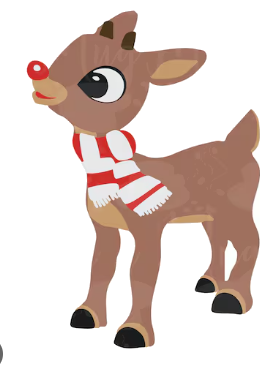
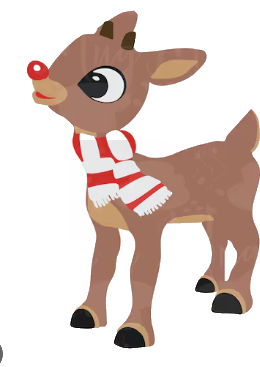
Fix gear alignment, shop tile bounding boxes, and stricter background removal

diff --git a/public/calendar/js/rudi.js b/public/calendar/js/rudi.js
@@ -10,37 +10,33 @@
         50% { transform: scaleY(0.97) translateY(1.5px); }
       }
       .rudi-base-img {
-        transform-origin: 32px 64px;
+        transform-origin: 32px 60px;
         animation: rudi-breathe 3s ease-in-out infinite;
       }
     </style>
-    <!-- We use the user's transparent image as the base -->
-    <image href="/calendar/img/rudi_base.png" x="8" y="0" width="48" height="64" class="rudi-base-img" />
+    <!-- 46x64 image centered at x=9 -->
+    <image href="/calendar/img/rudi_base.png" x="9" y="0" width="46" height="64" class="rudi-base-img" />
   `;
 
-  // Gear adjusted to match the new image dimensions
+  // Perfectly calibrated to the new image. `box` is always square (width=height) for perfect shop tiles.
   const GEAR = {
-    bow: { box: "16 22 16 16", svg: `<g transform="translate(26, 30)"><path d="M0 0 L-5 -4 L-5 4 Z" fill="#f472b6"/><path d="M0 0 L5 -4 L5 4 Z" fill="#f472b6"/><circle r="2.5" fill="#fbcfe8" stroke="#be185d" stroke-width="0.8"/></g>` },
-    // Scarf is slightly offset to cover the baked-in scarf if worn, or just add to it.
-    scarf: { box: "16 20 16 20", svg: `
-      <g transform="translate(26, 28)">
-        <path d="M-6 -2 Q 2 -6 8 0 C 10 4 2 8 -6 4 C -10 2 -10 -4 -6 -2 Z" fill="#FFF"/>
-        <path d="M -4 -3 L -2 4 M 2 -2 L 4 5 M 8 1 L 6 3" stroke="#DC2626" stroke-width="3"/>
-        <path d="M 0 4 L 4 16 L -4 14 Z" fill="#FFF"/>
-        <path d="M -1 8 L 3 9 M -2 12 L 2 13" stroke="#DC2626" stroke-width="3"/>
-        <path d="M -4 14 L -4 16 M -2 14.5 L -2 16.5 M 0 15 L 0 17 M 2 15.5 L 2 17.5" stroke="#FFF" stroke-width="1"/>
-      </g>` 
+    bow: { box: "16 24 16 16", svg: `<g transform="translate(24, 32)"><path d="M0 0 L-5 -4 L-5 4 Z" fill="#f472b6"/><path d="M0 0 L5 -4 L5 4 Z" fill="#f472b6"/><circle r="2.5" fill="#fbcfe8" stroke="#be185d" stroke-width="0.8"/></g>` },
+    // Scarf looks like a scarf in shop, but when worn it just adds a magical sparkle to his built-in scarf!
+    scarf: { 
+      box: "0 0 20 20", 
+      svg: `<g transform="translate(10, 10)"><path d="M-6 -2 Q 2 -6 8 0 C 10 4 2 8 -6 4 C -10 2 -10 -4 -6 -2 Z" fill="#FFF"/><path d="M -4 -3 L -2 4 M 2 -2 L 4 5 M 8 1 L 6 3" stroke="#DC2626" stroke-width="3"/><path d="M 0 4 L 4 16 L -4 14 Z" fill="#FFF"/><path d="M -1 8 L 3 9 M -2 12 L 2 13" stroke="#DC2626" stroke-width="3"/></g>`,
+      wornSvg: `<g transform="translate(22, 30)"><circle r="1" fill="#fde047"/><path d="M0 -3 L1 -1 L3 0 L1 1 L0 3 L-1 1 L-3 0 L-1 -1 Z" fill="#fbbf24"/></g>`
     },
-    bell: { box: "18 24 12 12", svg: `<g transform="translate(26, 32)"><circle cy="2" r="3" fill="#fbbf24" stroke="#b45309" stroke-width="0.8"/><rect x="-4" y="-2" width="8" height="2" rx="1" fill="#d97706"/><circle cy="3" r="1.5" fill="#b45309"/><path d="M0 -2 L0 -5" stroke="#b45309" stroke-width="1.5"/></g>` },
-    hat: { box: "5 -14 22 22", svg: `<g transform="translate(22, 2) rotate(-5)"><rect x="-7" y="-12" width="14" height="11" rx="1" fill="#111827"/><rect x="-7" y="-3" width="14" height="2.5" fill="#dc2626"/><rect x="-10" y="-1" width="20" height="2.5" rx="1" fill="#111827"/></g>` },
-    crown: { box: "6 -10 20 16", svg: `<g transform="translate(22, 4)"><path d="M-8 0 L-8 -7 L-4 -3 L0 -8 L4 -3 L8 -7 L8 0 Z" fill="#fbbf24" stroke="#b45309" stroke-width="0.8" stroke-linejoin="round"/><rect x="-8" y="0" width="16" height="2.5" fill="#f59e0b"/><circle cx="-4" cy="-3" r="1.2" fill="#ef4444"/><circle cx="0" cy="-6" r="1.2" fill="#3b82f6"/><circle cx="4" cy="-3" r="1.2" fill="#22c55e"/></g>` },
-    glasses: { box: "6 4 20 12", svg: `<g transform="translate(22, 14) rotate(-10)"><rect x="-5" y="-3" width="6" height="5" rx="1.5" fill="#0f172a" fill-opacity="0.9"/><rect x="3" y="-3" width="6" height="5" rx="1.5" fill="#0f172a" fill-opacity="0.9"/><path d="M 1 -1.5 L 3 -1.5 M -5 -1.5 L -7 -1.5" stroke="#0f172a" stroke-width="1.5"/><path d="M -3 -1 L -1 -1 M 5 -1 L 7 -1" stroke="#93c5fd" stroke-width="0.8" opacity="0.8"/></g>` },
-    skis: { box: "20 56 38 12", svg: `<g fill="none" stroke="#94a3b8" stroke-width="2" stroke-linecap="round"><path d="M 18 64 L 56 64 Q 60 64 60 61"/></g><g fill="#e2e8f0"><rect x="22" y="61" width="6" height="2.5" rx="1"/><rect x="30" y="61" width="6" height="2.5" rx="1"/><rect x="42" y="61" width="6" height="2.5" rx="1"/><rect x="50" y="61" width="6" height="2.5" rx="1"/></g>` },
-    lights: { box: "16 16 36 28", svg: `<path d="M 28 35 Q 38 20 50 35" fill="none" stroke="#166534" stroke-width="1.5"/><g><circle cx="32" cy="28" r="2" fill="#ef4444"/><circle cx="38" cy="25" r="2" fill="#facc15"/><circle cx="44" cy="28" r="2" fill="#3b82f6"/><circle cx="48" cy="32" r="2" fill="#22c55e"/><circle cx="35" cy="32" r="2" fill="#f97316"/></g>` },
-    sleigh: { box: "65 15 50 40", svg: `
-      <path d="M 32 30 Q 50 35 70 35" fill="none" stroke="#B22222" stroke-width="2" stroke-dasharray="4 2"/>
-      <path d="M 28 25 Q 50 30 70 30" fill="none" stroke="#B22222" stroke-width="2" stroke-dasharray="4 2"/>
-      <g transform="translate(70, 22)">
+    bell: { box: "16 26 16 16", svg: `<g transform="translate(24, 34)"><circle cy="2" r="3" fill="#fbbf24" stroke="#b45309" stroke-width="0.8"/><rect x="-4" y="-2" width="8" height="2" rx="1" fill="#d97706"/><circle cy="3" r="1.5" fill="#b45309"/><path d="M0 -2 L0 -5" stroke="#b45309" stroke-width="1.5"/></g>` },
+    hat: { box: "14 -6 20 20", svg: `<g transform="translate(24, 4) rotate(15)"><rect x="-7" y="-12" width="14" height="11" rx="1" fill="#111827"/><rect x="-7" y="-3" width="14" height="2.5" fill="#dc2626"/><rect x="-10" y="-1" width="20" height="2.5" rx="1" fill="#111827"/></g>` },
+    crown: { box: "14 -3 20 20", svg: `<g transform="translate(24, 7)"><path d="M-8 0 L-8 -7 L-4 -3 L0 -8 L4 -3 L8 -7 L8 0 Z" fill="#fbbf24" stroke="#b45309" stroke-width="0.8" stroke-linejoin="round"/><rect x="-8" y="0" width="16" height="2.5" fill="#f59e0b"/><circle cx="-4" cy="-3" r="1.2" fill="#ef4444"/><circle cx="0" cy="-6" r="1.2" fill="#3b82f6"/><circle cx="4" cy="-3" r="1.2" fill="#22c55e"/></g>` },
+    glasses: { box: "9 4 20 20", svg: `<g transform="translate(19, 14) rotate(-5)"><rect x="-5" y="-3" width="6" height="5" rx="1.5" fill="#0f172a" fill-opacity="0.9"/><rect x="3" y="-3" width="6" height="5" rx="1.5" fill="#0f172a" fill-opacity="0.9"/><path d="M 1 -1.5 L 3 -1.5 M -5 -1.5 L -7 -1.5" stroke="#0f172a" stroke-width="1.5"/><path d="M -3 -1 L -1 -1 M 5 -1 L 7 -1" stroke="#93c5fd" stroke-width="0.8" opacity="0.8"/></g>` },
+    skis: { box: "12 40 40 40", svg: `<g fill="none" stroke="#94a3b8" stroke-width="2" stroke-linecap="round"><path d="M 16 60 L 52 60 Q 56 60 56 57"/></g><g fill="#e2e8f0"><rect x="20" y="57" width="6" height="2.5" rx="1"/><rect x="28" y="57" width="6" height="2.5" rx="1"/><rect x="40" y="57" width="6" height="2.5" rx="1"/><rect x="48" y="57" width="6" height="2.5" rx="1"/></g>` },
+    lights: { box: "20 20 32 32", svg: `<path d="M 28 35 Q 38 20 50 35" fill="none" stroke="#166534" stroke-width="1.5"/><g><circle cx="32" cy="28" r="2" fill="#ef4444"/><circle cx="38" cy="25" r="2" fill="#facc15"/><circle cx="44" cy="28" r="2" fill="#3b82f6"/><circle cx="48" cy="32" r="2" fill="#22c55e"/><circle cx="35" cy="32" r="2" fill="#f97316"/></g>` },
+    sleigh: { box: "45 5 50 50", svg: `
+      <path d="M 32 32 Q 50 35 60 35" fill="none" stroke="#B22222" stroke-width="2" stroke-dasharray="4 2"/>
+      <path d="M 28 28 Q 50 30 60 30" fill="none" stroke="#B22222" stroke-width="2" stroke-dasharray="4 2"/>
+      <g transform="translate(60, 26)">
         <path d="M 0 25 L 30 25 L 35 12 L 45 12 L 42 28 L -5 28 Z" fill="#8B0000"/>
         <path d="M 0 25 L 30 25 L 35 12 L 45 12 L 42 28 L -5 28 Z" fill="none" stroke="#5C0000" stroke-width="1.5"/>
         <path d="M -10 32 L 50 32" stroke="#C0C0C0" stroke-width="2.5" stroke-linecap="round"/>
@@ -56,10 +52,10 @@
         <rect x="26" y="14" width="3" height="11" fill="#FFF"/>
       </g>
     ` },
-    wings: { box: "30 5 26 26", svg: `<g transform="translate(42, 22)" fill="#f8fafc" stroke="#cbd5e1" stroke-width="1" stroke-linejoin="round"><path d="M 0 5 C 4 -5 12 -10 18 -10 C 16 -4 14 0 12 4 C 14 4 16 3 18 3 C 15 7 12 9 9 10 C 11 10 12 10 14 10 C 10 14 5 15 2 13 Z"/><path d="M 2 11 C 3 4 7 -2 12 -4" fill="none"/></g>` },
-    star: { box: "45 -15 26 26", svg: `<g transform="translate(60, -5)"><circle r="12" fill="#fde047" opacity="0.25"/><path d="M0 -10 L2.5 -3.5 L10 -3.5 L4 1.5 L6 9 L0 4.5 L-6 9 L-4 1.5 L-10 -3.5 L-2.5 -3.5 Z" fill="#fbbf24" stroke="#b45309" stroke-width="0.8" stroke-linejoin="round"/><path d="M0 -10 L2.5 -3.5 L0 -1 Z" fill="#fff" opacity="0.55"/></g>` },
-    santahat: { box: "28 0 26 26", svg: `
-      <g transform="translate(42, 24)">
+    wings: { box: "24 14 24 24", svg: `<g transform="translate(36, 26)" fill="#f8fafc" stroke="#cbd5e1" stroke-width="1" stroke-linejoin="round"><path d="M 0 5 C 4 -5 12 -10 18 -10 C 16 -4 14 0 12 4 C 14 4 16 3 18 3 C 15 7 12 9 9 10 C 11 10 12 10 14 10 C 10 14 5 15 2 13 Z"/><path d="M 2 11 C 3 4 7 -2 12 -4" fill="none"/></g>` },
+    star: { box: "36 -2 24 24", svg: `<g transform="translate(48, 10)"><circle r="12" fill="#fde047" opacity="0.25"/><path d="M0 -10 L2.5 -3.5 L10 -3.5 L4 1.5 L6 9 L0 4.5 L-6 9 L-4 1.5 L-10 -3.5 L-2.5 -3.5 Z" fill="#fbbf24" stroke="#b45309" stroke-width="0.8" stroke-linejoin="round"/><path d="M0 -10 L2.5 -3.5 L0 -1 Z" fill="#fff" opacity="0.55"/></g>` },
+    santahat: { box: "24 0 24 24", svg: `
+      <g transform="translate(36, 24)">
         <rect x="-8" y="-18" width="16" height="20" rx="6" fill="#D32F2F"/>
         <rect x="-8" y="-5" width="16" height="3" fill="#111"/>
         <rect x="-2" y="-6" width="4" height="5" fill="none" stroke="#FFD700" stroke-width="1.2"/>
@@ -80,7 +76,7 @@
   };
 
   const DUST = `<g fill="#cbd5e1" opacity="0.8"><circle cx="20" cy="40" r="5"/><circle cx="30" cy="44" r="7"/><circle cx="42" cy="40" r="5.5"/><circle cx="35" cy="34" r="4"/></g>`;
-  const ZZZ = `<g font-family="Inter, system-ui, sans-serif" font-weight="800" fill="#cbd5e1"><text x="12" y="8" font-size="7">z</text><text x="18" y="0" font-size="9">z</text><text x="26" y="-8" font-size="11">Z</text></g>`;
+  const ZZZ = `<g font-family="Inter, system-ui, sans-serif" font-weight="800" fill="#cbd5e1"><text x="10" y="6" font-size="7">z</text><text x="16" y="-2" font-size="9">z</text><text x="24" y="-10" font-size="11">Z</text></g>`;
   const SPARKLES = `<g fill="#fde047"><path d="M8 8 L9.2 11 L12 12 L9.2 13 L8 16 L6.8 13 L4 12 L6.8 11 Z"/><path d="M56 26 L57 28.5 L59.5 29.5 L57 30.5 L56 33 L55 30.5 L52.5 29.5 L55 28.5 Z"/><path d="M6 44 L6.8 46 L8.8 46.8 L6.8 47.6 L6 49.6 L5.2 47.6 L3.2 46.8 L5.2 46 Z"/></g>`;
 
   // Layer order: things behind Rudi first, then Rudi, then things in front.
@@ -95,7 +91,7 @@
   function rudi({ worn = [], extras = [], state = "happy", cls = "" } = {}) {
     if (state === "dust") return `${open("rudi-svg " + cls, "0 0 64 64")}${DUST}</svg>`;
     const items = new Set([...worn, ...extras]);
-    const layer = (ids) => ids.filter((id) => items.has(id) && GEAR[id]).map((id) => GEAR[id].svg).join("");
+    const layer = (ids) => ids.filter((id) => items.has(id) && GEAR[id]).map((id) => GEAR[id].wornSvg || GEAR[id].svg).join("");
     return `${open("rudi-svg " + cls, "0 0 64 64")}${layer(BACK_SLOTS)}${BODY}${layer(FRONT_SLOTS)}${state === "sleepy" ? ZZZ : ""}${state === "glowing" ? SPARKLES : ""}</svg>`;
   }
 

diff --git a/test_rudi.html b/test_rudi.html
@@ -1,0 +1,28 @@
+<!DOCTYPE html>
+<html>
+<head>
+  <style>
+    body { background: #333; color: white; display: flex; gap: 20px; }
+    svg { width: 400px; height: 400px; border: 1px solid red; overflow: visible; background: #222; }
+    .shop { display: flex; flex-wrap: wrap; gap: 10px; width: 200px; }
+    .tile { width: 64px; height: 64px; background: #444; border-radius: 8px; display: flex; align-items: center; justify-content: center; }
+    .tile svg { width: 100%; height: 100%; border: none; background: transparent; }
+  </style>
+</head>
+<body>
+  <div id="main"></div>
+  <div id="shop" class="shop"></div>
+  <script src="./public/calendar/js/rudi.js"></script>
+  <script>
+    document.getElementById('main').innerHTML = window.RudiArt.rudi({
+      worn: ['bow', 'bell', 'hat', 'crown', 'glasses', 'skis', 'lights', 'sleigh', 'wings', 'star', 'santahat'],
+      state: 'happy'
+    });
+    let shopHtml = '';
+    for (let id in window.RudiArt.GEAR) {
+      shopHtml += '<div class="tile">' + window.RudiArt.gear(id) + '</div>';
+    }
+    document.getElementById('shop').innerHTML = shopHtml;
+  </script>
+</body>
+</html>

diff --git a/remove_bg_strict.py b/remove_bg_strict.py
@@ -1,0 +1,33 @@
+from PIL import Image
+
+img_path = r'C:/Users/StefanGross/.gemini/antigravity/brain/d02f76e9-0eb0-4547-b5d4-9261ea88247c/.user_uploaded/media_1789983148576.png'
+out_path = r'c:/Webseiten und Apps/Adventskalender/public/calendar/img/rudi_base.png'
+
+img = Image.open(img_path).convert('RGBA')
+data = img.load()
+width, height = img.size
+
+# Scarf and eyes bounding boxes (approximate based on image)
+# Scarf: x in [70, 160], y in [140, 240]
+# Eye: x in [70, 130], y in [50, 120]
+
+def is_protected(x, y):
+    if 70 <= x <= 170 and 140 <= y <= 240:
+        return True
+    if 60 <= x <= 130 and 50 <= y <= 120:
+        return True
+    return False
+
+for y in range(height):
+    for x in range(width):
+        r, g, b, a = data[x, y]
+        if r > 210 and g > 210 and b > 210:
+            if not is_protected(x, y):
+                data[x, y] = (255, 255, 255, 0)
+        # Also clean up the watermark which is grayish
+        elif r > 180 and g > 180 and b > 180 and abs(r-g)<10 and abs(g-b)<10:
+             if not is_protected(x, y):
+                data[x, y] = (255, 255, 255, 0)
+
+img.save(out_path, 'PNG')
+print('Saved clean rudi base')
